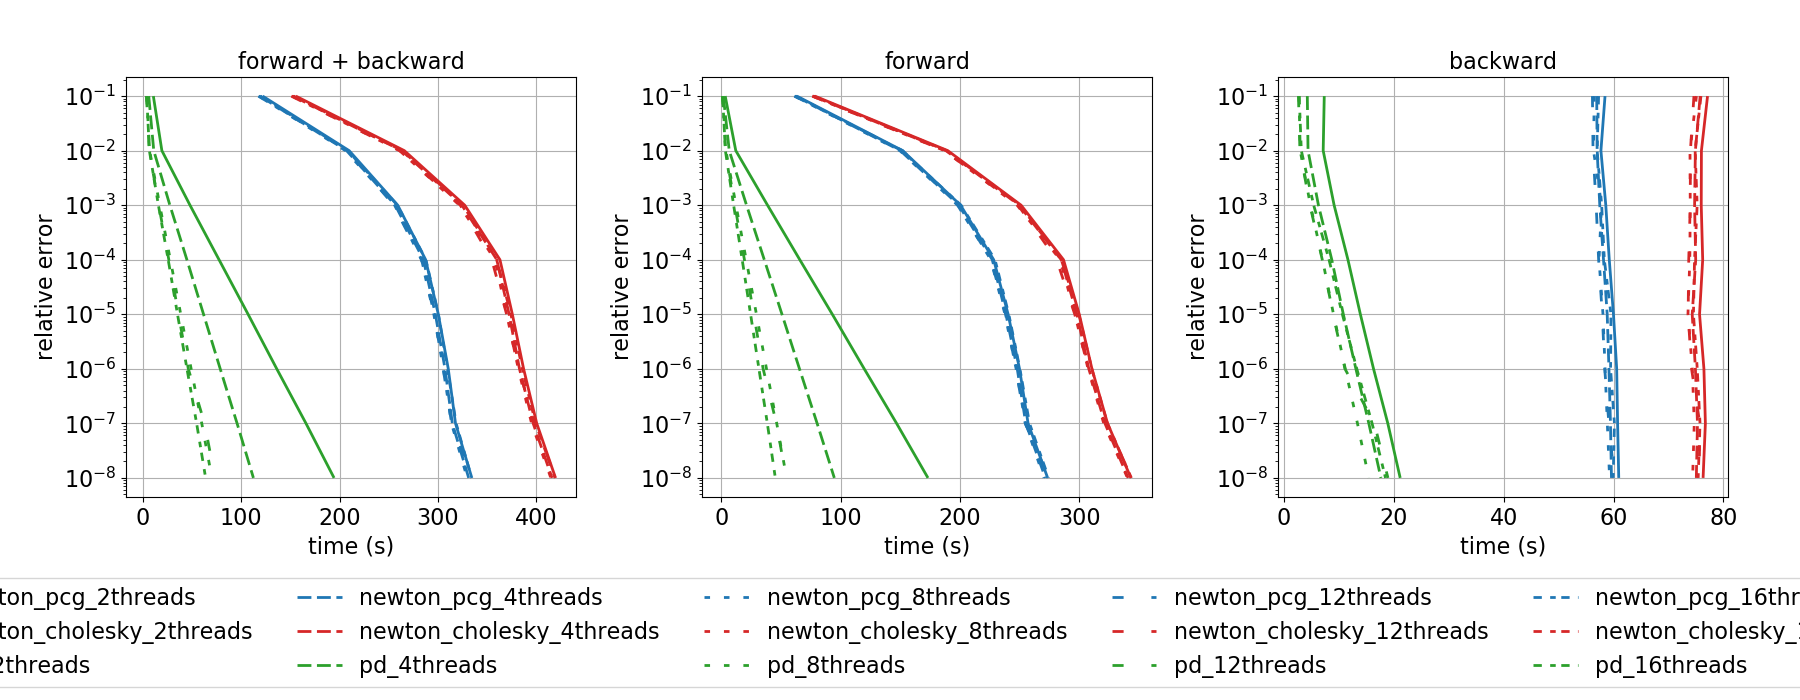
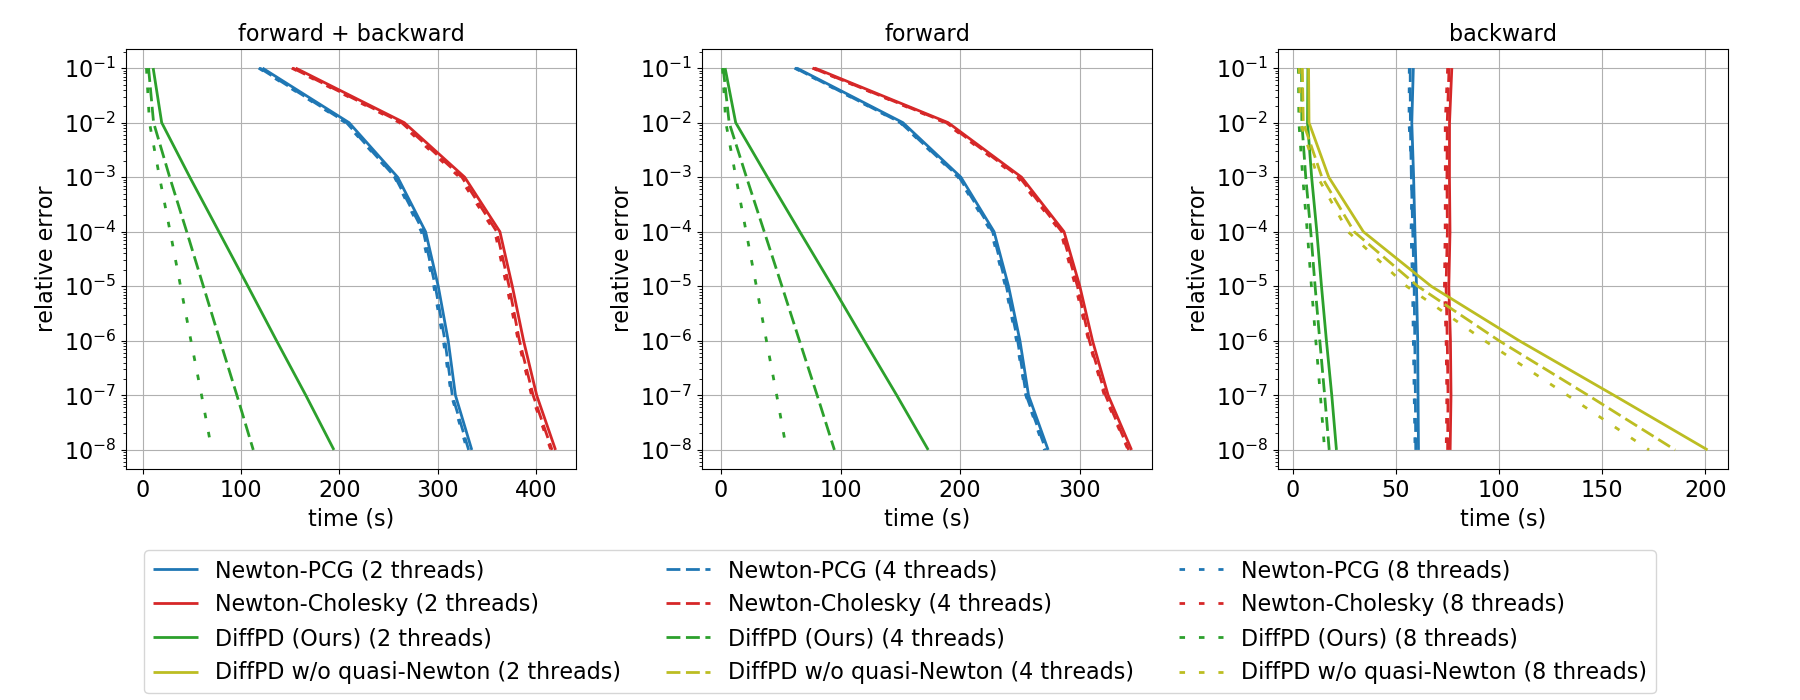
Finalize benchmark figure. [skip ci]

Changed region(s): [[0.0, 0.03, 1.0, 1.0], [0.5911, 0.09, 0.6222, 0.12]]

diff --git a/python/example/print_benchmark_3d_table.py b/python/example/print_benchmark_3d_table.py
@@ -30,14 +30,10 @@ if __name__ == '__main__':
     folder = Path('benchmark_3d')
     rel_tols, forward_times, backward_times, losses, grads = pickle.load(open(folder / 'table.bin', 'rb'))
 
-    # Parse thread cnt.
-    thread_cts = []
-    for method in forward_times:
-        if 'pd' in method:
-            # Extract thread number from pd_XXthreads.
-            thread_cts.append(int(method[3:-7]))
-    thread_cts = sorted(thread_cts)
+    # Load additional PD data w/o speedup.
+    _, pd_wo_speedup_forward_times, pd_wo_speedup_backward_times, _, _ = pickle.load(open(folder / 'table_pd_wo_bfgs.bin', 'rb'))
 
+    thread_cts = [2, 4, 8]
     forward_backward_times = {}
     for method in forward_times:
         forward_backward_times[method] = np.zeros(len(rel_tols))
@@ -70,16 +66,17 @@ if __name__ == '__main__':
     ax_f = fig.add_subplot(132)
     ax_b = fig.add_subplot(133)
     titles = ['forward + backward', 'forward', 'backward']
-    ax_poses = [(0.07, 0.29, 0.25, 0.6),
-        (0.39, 0.29, 0.25, 0.6),
-        (0.71, 0.29, 0.25, 0.6)]
+    ax_poses = [(0.07, 0.33, 0.25, 0.6),
+        (0.39, 0.33, 0.25, 0.6),
+        (0.71, 0.33, 0.25, 0.6)]
     dash_list =[(5, 0), (5, 2), (2, 5), (4, 10), (3, 3, 2, 2), (5, 2, 20, 2), (5, 5), (5, 2, 1, 2)]
     for ax_pos, title, ax, t in zip(ax_poses, titles, (ax_fb, ax_f, ax_b), (forward_backward_times, forward_times, backward_times)):
         ax.set_position(ax_pos)
         ax.set_xlabel('time (s)')
         ax.set_ylabel('relative error')
         ax.set_yscale('log')
-        for method in ['newton_pcg', 'newton_cholesky', 'pd']:
+        for method, method_ref_name in zip(['newton_pcg', 'newton_cholesky', 'pd'],
+            ['Newton-PCG', 'Newton-Cholesky', 'DiffPD (Ours)']):
             if 'pd' in method:
                 color = 'tab:green'
             elif 'pcg' in method:
@@ -88,33 +85,41 @@ if __name__ == '__main__':
                 color = 'tab:red'
             for thread_ct in thread_cts:
                 idx = thread_cts.index(thread_ct)
-                meth_thread_num = '{}_{}threads'.format(method, thread_ct)
-                ax.plot(t[meth_thread_num], rel_tols, label=meth_thread_num,
+                meth_thread_num = '{} ({} threads)'.format(method_ref_name, thread_ct)
+                ax.plot(t['{}_{}threads'.format(method, thread_ct)], rel_tols, label=meth_thread_num,
                     color=color, dashes=dash_list[idx], linewidth=2)
+        if title == 'backward':
+            for idx, thread_ct in enumerate(thread_cts):
+                pd_wo_speedup_backward_time = pd_wo_speedup_backward_times['pd_{}threads'.format(thread_ct)]
+                ax.plot(pd_wo_speedup_backward_time, rel_tols[:len(pd_wo_speedup_backward_time)],
+                    label='DiffPD w/o quasi-Newton ({} threads)'.format(thread_ct),
+                    color='tab:olive', dashes=dash_list[idx], linewidth=2)
         ax.grid(True)
         ax.set_title(title)
         handles, labels = ax.get_legend_handles_labels()
 
     # Share legends.
-    row_num = 3
+    row_num = 4
     col_num = len(thread_cts)
     fig.legend(transpose_list(handles, row_num, col_num), transpose_list(labels, row_num, col_num),
-        loc='upper center', ncol=col_num, bbox_to_anchor=(0.5, 0.19))
+        loc='upper center', ncol=col_num, bbox_to_anchor=(0.5, 0.23))
     fig.savefig(folder / 'benchmark.pdf')
     fig.savefig(folder / 'benchmark.png')
 
-    fig_l_g = plt.figure(figsize=(15, 7))
+    fig_l_g = plt.figure(figsize=(12, 8))
     ax_loss = fig_l_g.add_subplot(121)
     ax_grad = fig_l_g.add_subplot(122)
-    titles_l_g = ['losses', '|grad|']
+    ax_loss.set_position((0.09, 0.2, 0.37, 0.6))
+    ax_grad.set_position((0.53, 0.2, 0.37, 0.6))
+    titles_l_g = ['loss', '|grad|']
     for title, ax, y in zip(titles_l_g, (ax_loss, ax_grad), (losses, grad_norms)):
-        ax.set_xlabel('relative error')
+        ax.set_xlabel('convergence threshold')
         ax.set_ylabel('magnitude')
         ax.set_xscale('log')
         ax.invert_xaxis()
         if 'grad' in title:
             ax.set_yscale('log')
-        for method in ['newton_pcg', 'newton_cholesky', 'pd']:
+        for method, method_ref_name in zip(['newton_pcg', 'newton_cholesky', 'pd'], ['Newton-PCG', 'Newton-Cholesky', 'DiffPD (Ours)']):
             if 'pd' in method:
                 color = 'tab:green'
             elif 'pcg' in method:
@@ -122,11 +127,12 @@ if __name__ == '__main__':
             elif 'cholesky' in method:
                 color = 'tab:red'
             meth_thread_num = '{}_{}threads'.format(method, thread_cts[-1])
-            ax.plot(rel_tols, y[meth_thread_num], label=method, color=color, linewidth=2)
+            ax.plot(rel_tols, y[meth_thread_num], label=method_ref_name, color=color, linewidth=2)
         ax.grid(True)
-        ax.legend()
         ax.set_title(title)
+        handles, labels = ax.get_legend_handles_labels()
 
+    fig_l_g.legend(handles, labels, loc='upper center', ncol=3, bbox_to_anchor=(0.5, 0.1))
     fig_l_g.savefig(folder / 'benchmark_loss_grad.pdf')
     fig_l_g.savefig(folder / 'benchmark_loss_grad.png')
     plt.show()
